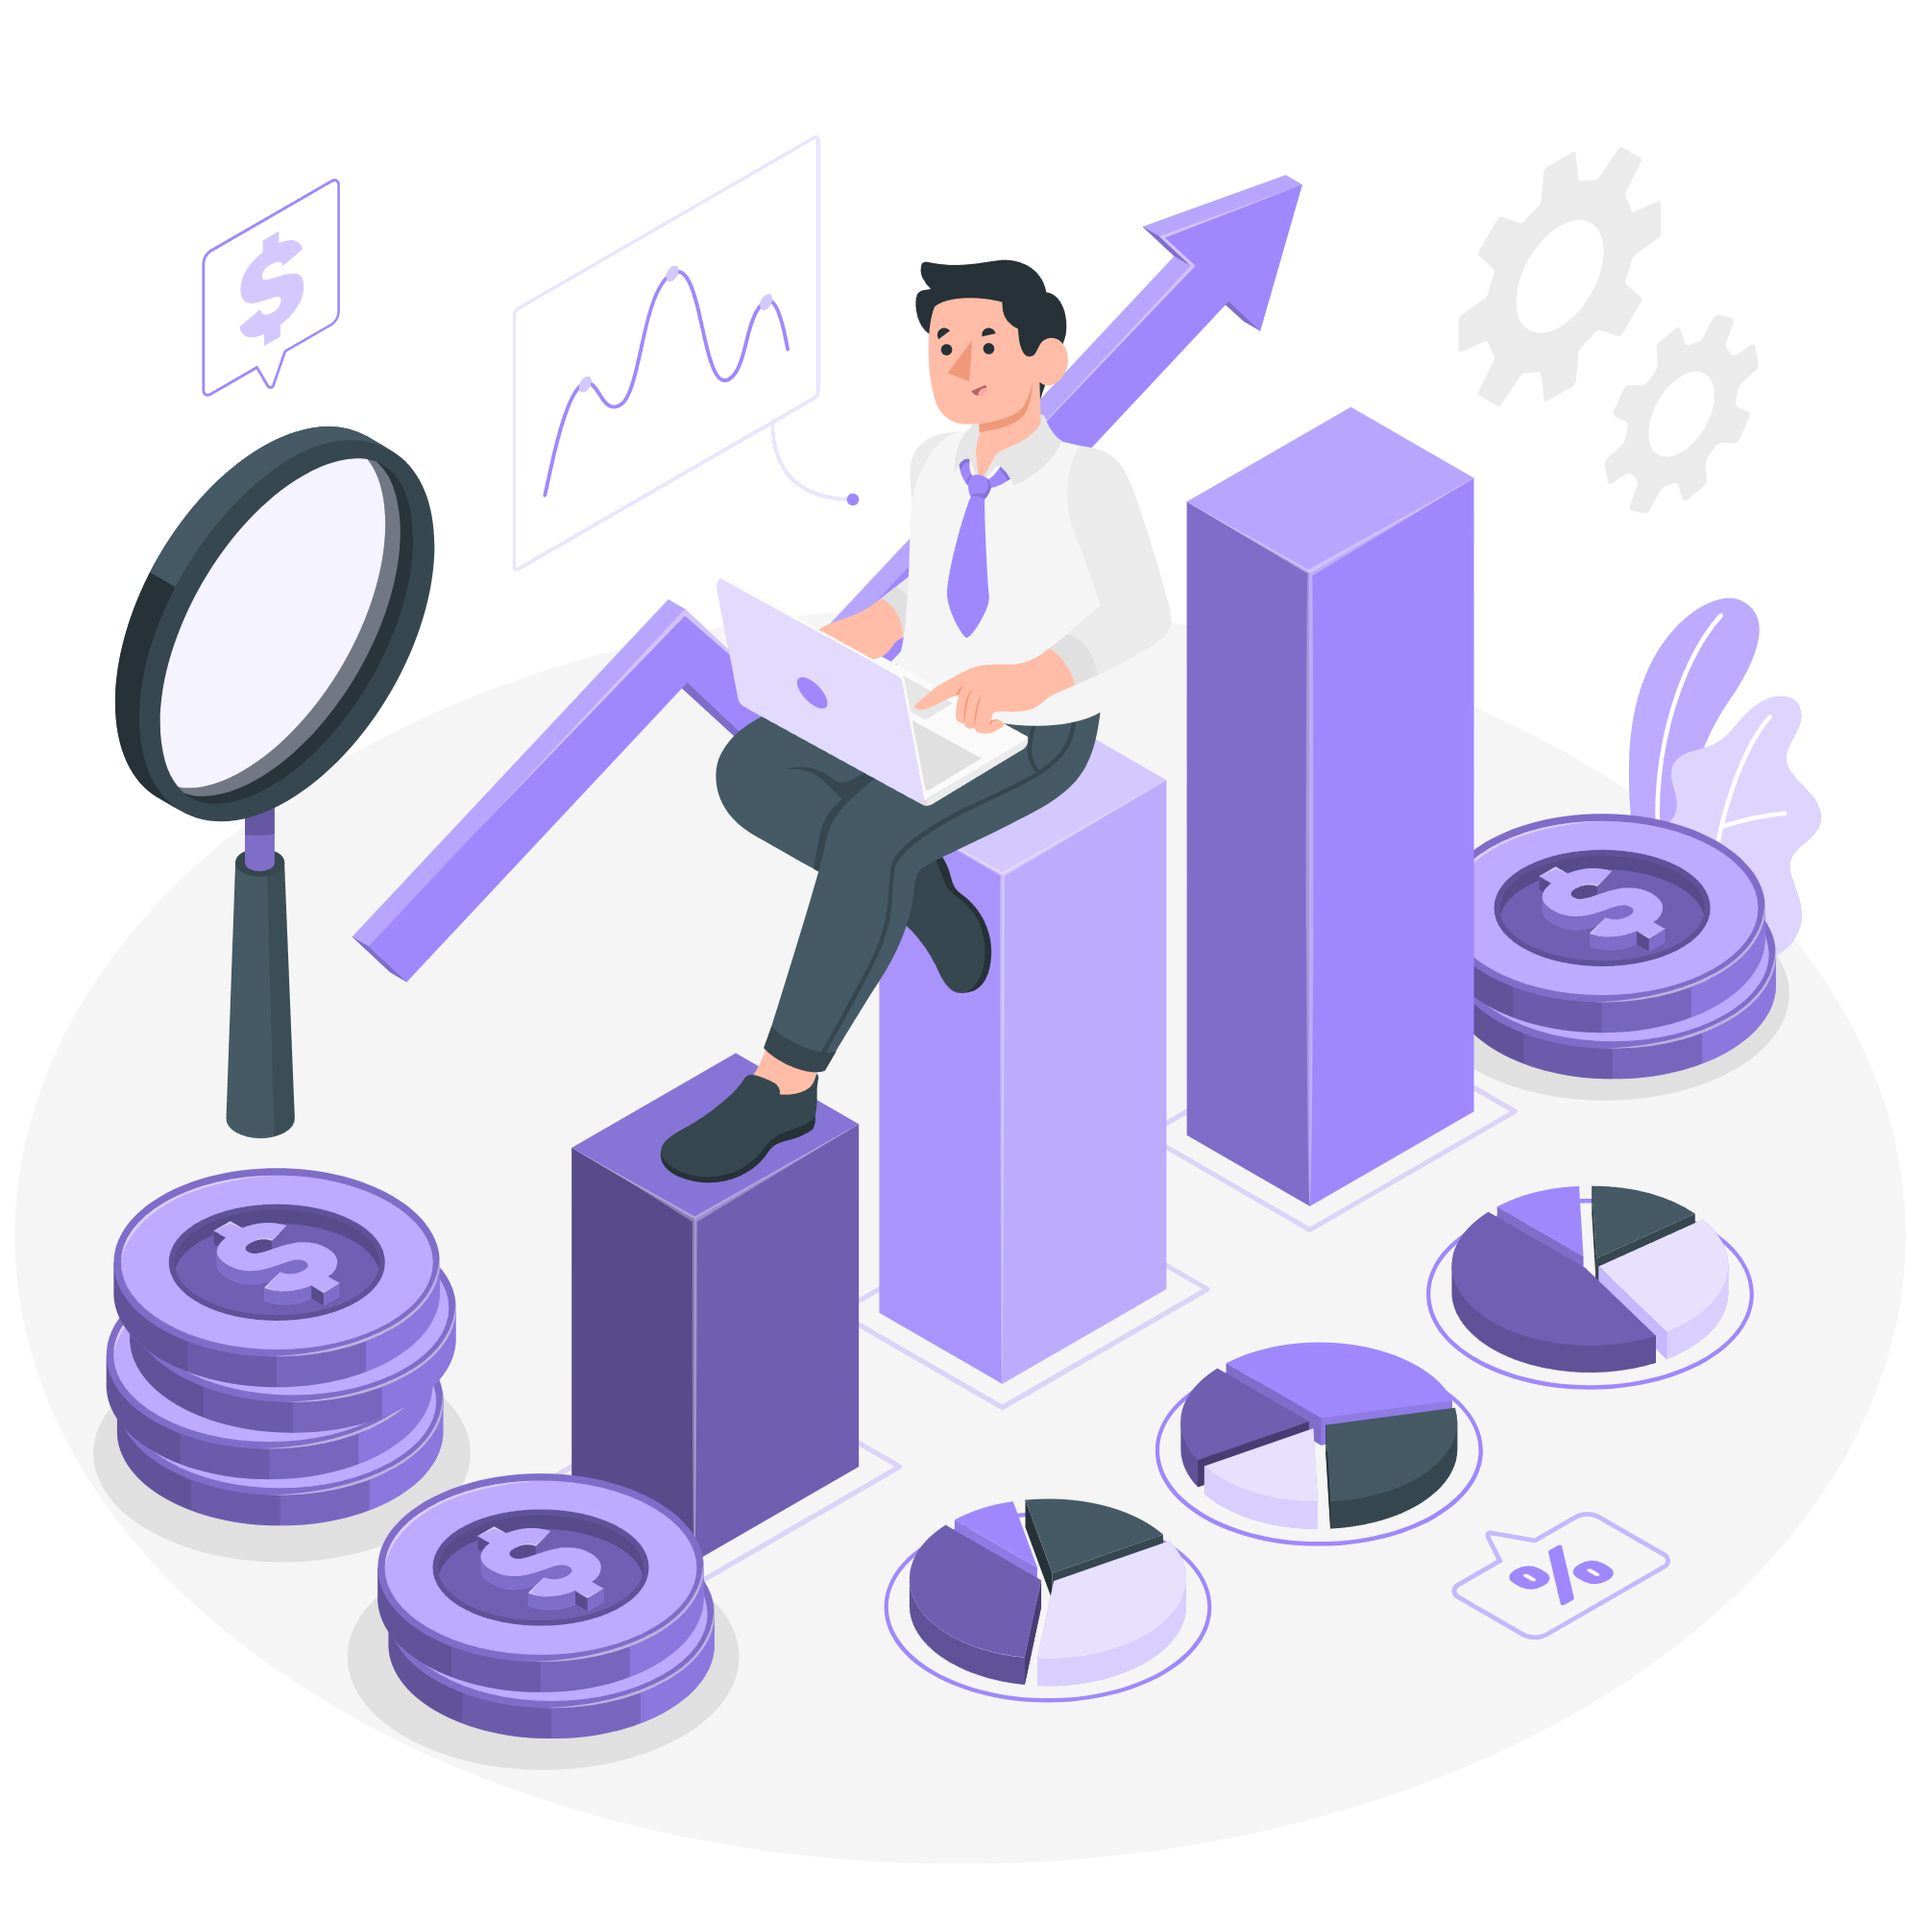
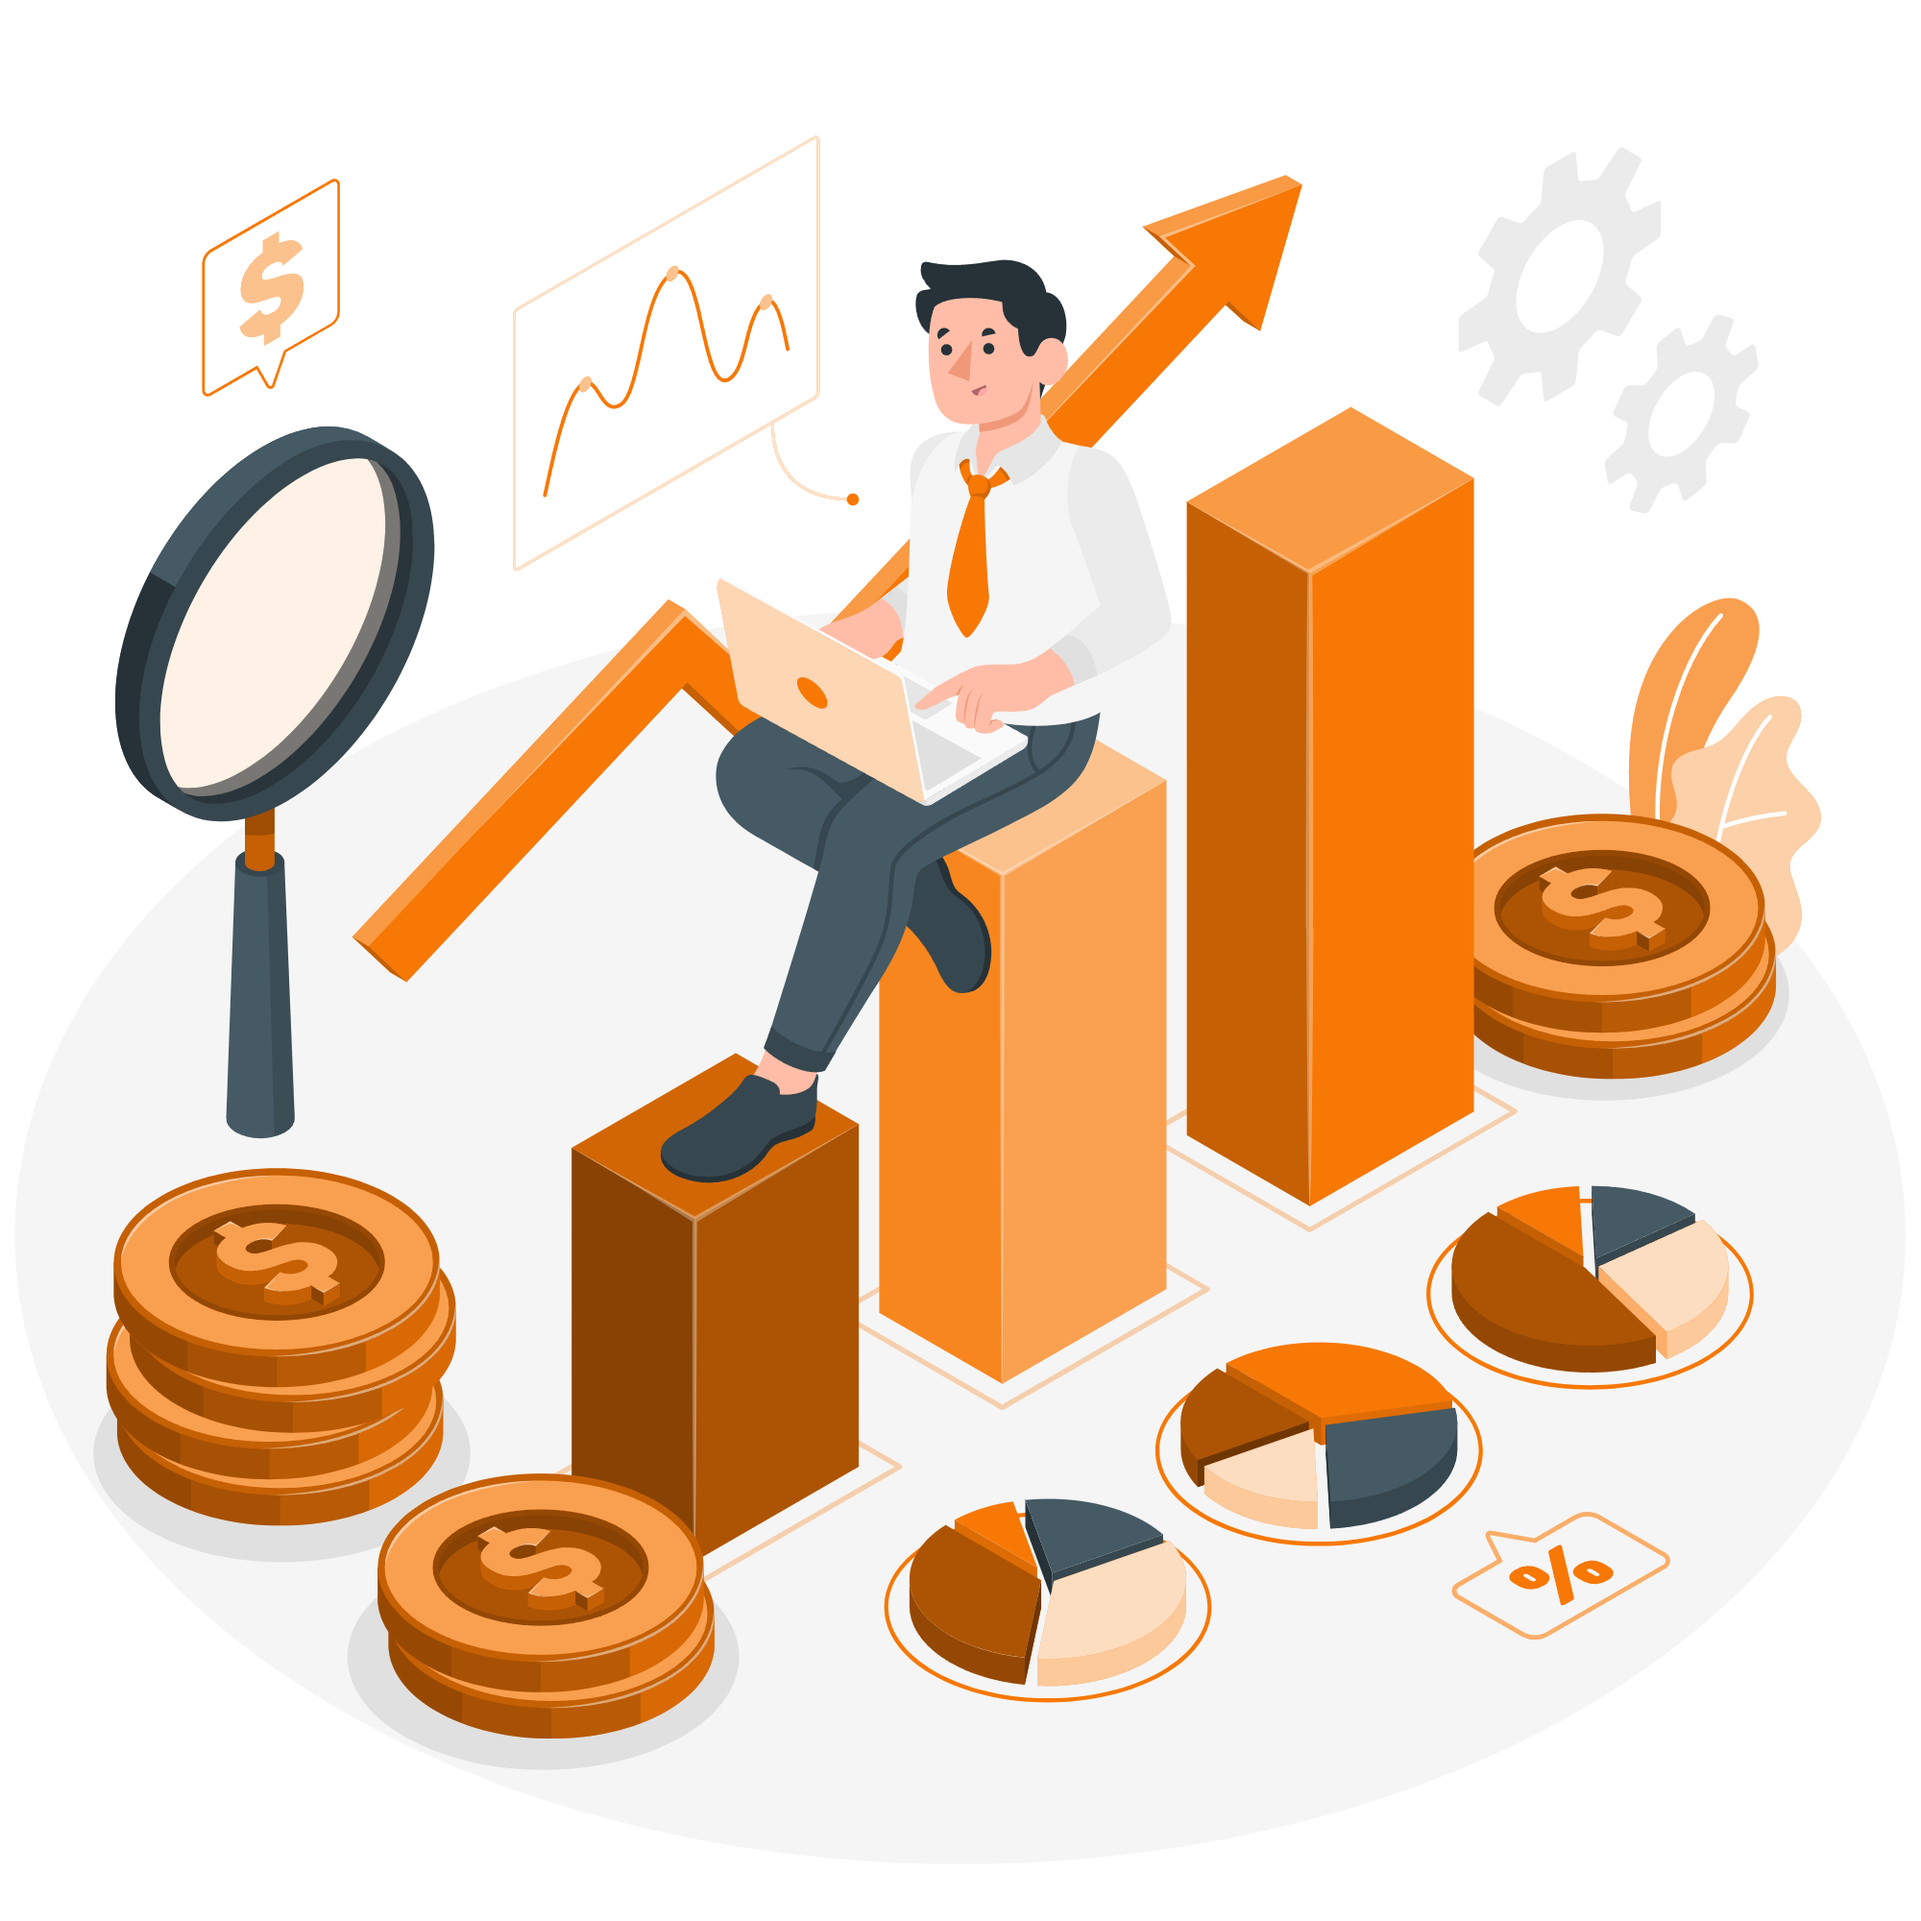
Added testimonials section

diff --git a/index.html b/index.html
@@ -5,11 +5,12 @@
     <meta charset="UTF-8" />
     <meta name="viewport" content="width=device-width, initial-scale=1.0" />
     <title>BillingCoPay</title>
-    <link rel="stylesheet" href="css/navbar.css" />
     <link rel="stylesheet" href="css/hero.css" />
+    <link rel="stylesheet" href="css/navbar.css" />
     <link rel="stylesheet" href="css/services.css" />
     <link rel="stylesheet" href="css/testimonials.css" />
     <link rel="stylesheet" href="css/features.css" />
+    <link rel="stylesheet" href="css/banks.css" />
     <link rel="stylesheet" href="https://cdnjs.cloudflare.com/ajax/libs/font-awesome/6.4.0/css/all.min.css" />
 </head>
 
@@ -75,7 +76,7 @@
                 </a>
             </div>
             <div class="hero-right">
-                <img src="images/credit.svg" alt="Billing Illustration" />
+                <img src="images/credit-o.svg" alt="Billing Illustration" />
             </div>
         </div>
     </section>
@@ -145,7 +146,7 @@
 
     <section class="features">
         <div class="features-header center-header">
-            <h2>Why Choose BillingCoPay?</h2>
+            <h2>Why Choose BillingPay?</h2>
             <p>Reliable, secure and fast solutions for all your billing needs.</p>
         </div>
         <div class="container two-col-layout">
@@ -233,6 +234,35 @@
         </div>
     </section>
 
+    <section class="banks">
+        <div class="container">
+            <div class="banks-header">
+                <h2>Eligible Banking Partners</h2>
+                <p>Transact confidently with our verified banking network.</p>
+            </div>
+            <div class="banks-grid">
+                <div class="bank-logo"><img src="images/banks/icici.webp" alt="ICICI Bank"></div>
+                <div class="bank-logo"><img src="images/banks/axis.webp" alt="HDFC Bank"></div>
+                <div class="bank-logo"><img src="images/banks/sbi.webp" alt="SBI"></div>
+                <div class="bank-logo"><img src="images/banks/bandhan.webp" alt="Axis Bank"></div>
+
+                <div class="bank-logo"><img src="images/banks/kotak.webp" alt="Kotak Bank"></div>
+                <div class="bank-logo"><img src="images/banks/yes.webp" alt="Yes Bank"></div>
+                <div class="bank-logo"><img src="images/banks/boi.webp" alt="Bank of India"></div>
+                <div class="bank-logo"><img src="images/banks/bob.webp" alt="PNB"></div>
+
+                <div class="bank-logo"><img src="images/banks/union.webp" alt="Union Bank"></div>
+                <div class="bank-logo"><img src="images/banks/canara.webp" alt="Canara Bank"></div>
+                <div class="bank-logo"><img src="images/banks/cboi.webp" alt="IDFC First Bank"></div>
+                <div class="bank-logo"><img src="images/banks/induslnd.webp" alt="IndusInd Bank"></div>
+
+                <div class="bank-logo"><img src="images/banks/hdfc.webp" alt="Standard Chartered"></div>
+                <div class="bank-logo"><img src="images/banks/indian.webp" alt="Citi Bank"></div>
+                <div class="bank-logo"><img src="images/banks/oboc.webp" alt="Federal Bank"></div>
+                <div class="bank-logo"><img src="images/banks/uco.webp" alt="RBL Bank"></div>
+            </div>
+        </div>
+    </section>
 
 
 

diff --git a/css/hero.css b/css/hero.css
@@ -4,21 +4,23 @@
     --color-sky: #E8F9FF;
     --color-soft: #C4D9FF;
     --color-purple: #C5BAFF;
-    --color-dark: #290e67;
+    --color-secondary: #0054d8;
+    --color-dark: #042046;
     --text-white: #FFFFFF;
+    --text-main: #042046;
     --text-black: #333333;
     --text-muted: #666666;
-    --color-50: #f4f3ff;
-    --color-100: #ece8ff;
-    --color-200: #dad5ff;
-    --color-300: #c5baff;
-    --color-400: #9f88fd;
-    --color-500: #8158fa;
-    --color-600: #7235f2;
-    --color-700: #6323de;
-    --color-800: #521dba;
-    --color-900: #451a98;
-    --color-950: #290e67;
+    --color-50: #fffaec;
+    --color-100: #fff3d4;
+    --color-200: #ffe3a7;
+    --color-300: #ffcd70;
+    --color-400: #ffac36;
+    --color-500: #ff920f;
+    --color-600: #f77805;
+    --color-700: #c85906;
+    --color-800: #9e450e;
+    --color-900: #7f3a0f;
+    --color-950: #451c05;
 }
 
 * {
@@ -54,7 +56,7 @@ body {
 
 .hero-left h1 {
     font-size: 4.8rem;
-    color: #333;
+    color: var(--color-dark);
     margin-bottom: 15px;
 }
 
@@ -68,7 +70,7 @@ body {
 .hero-btn {
     display: inline-block;
     padding: 12px 25px;
-    background: var(--color-700);
+    background: var(--color-500);
     color: var(--text-white);
     border-radius: 8px;
     text-decoration: none;
@@ -81,7 +83,7 @@ body {
 }
 
 .hero-btn:hover {
-    background: var(--color-500);
+    background: var(--color-700);
     transform: translateY(-2px);
 }
 

diff --git a/css/banks.css b/css/banks.css
@@ -1,0 +1,48 @@
+.banks {
+    padding: 80px 20px;
+    background: var(--color-light);
+}
+
+.banks .container {
+    max-width: 1400px;
+    margin: auto;
+    text-align: center;
+}
+
+.banks-header h2 {
+    font-size: 2.5rem;
+    color: var(--text-main);
+    margin-bottom: 10px;
+}
+
+.banks-header p {
+    color: var(--text-muted);
+    font-size: 1.1rem;
+    margin-bottom: 40px;
+}
+
+.banks-grid {
+    display: grid;
+    grid-template-columns: repeat(4, 1fr);
+    gap: 30px;
+    align-items: center;
+    justify-items: center;
+}
+
+.bank-logo img {
+    max-width: 100px;
+    transition: transform 0.3s ease, box-shadow 0.3s ease;
+}
+
+/* Responsive tweaks */
+@media (max-width: 992px) {
+    .banks-grid {
+        grid-template-columns: repeat(3, 1fr);
+    }
+}
+
+@media (max-width: 600px) {
+    .banks-grid {
+        grid-template-columns: repeat(2, 1fr);
+    }
+}

diff --git a/css/navbar.css b/css/navbar.css
@@ -1,17 +1,20 @@
-/* Basic styling */
 .navbar {
-    width: 100%;
-    background: #fff;
+    width: 90vw;
+    background: #ffab366e;
+    backdrop-filter: blur(20px);
+    border-radius: 50px;
     box-shadow: 0 2px 5px rgba(0, 0, 0, 0.1);
     position: fixed;
-    top: 0;
+    top: 20px;
+    left: 50%;
+    transform: translateX(-50%);
     z-index: 999;
 }
 
 .navbar-container {
-    max-width: 1200px;
+    max-width: 100%;
     margin: auto;
-    padding: 10px 20px;
+    padding: 18px 60px;
     display: flex;
     align-items: center;
     justify-content: space-between;
@@ -21,7 +24,6 @@
     height: 50px;
 }
 
-/* Nav links center */
 .nav-links {
     list-style: none;
     display: flex;

diff --git a/css/services.css b/css/services.css
@@ -12,7 +12,8 @@
 .services-container h2 {
     font-size: 2.5rem;
     margin-bottom: 50px;
-    color: var(--text-main);
+    /* color: var(--text-main); */
+    color: var(--color-dark);
 }
 
 .services-grid {
@@ -69,7 +70,8 @@
 
 .service-content .icon {
     font-size: 2.5rem;
-    color: var(--color-400);
+    /* color: var(--color-400); */
+    color: var(--color-dark);
     margin-bottom: 15px;
     transition: color 0.3s;
 }
